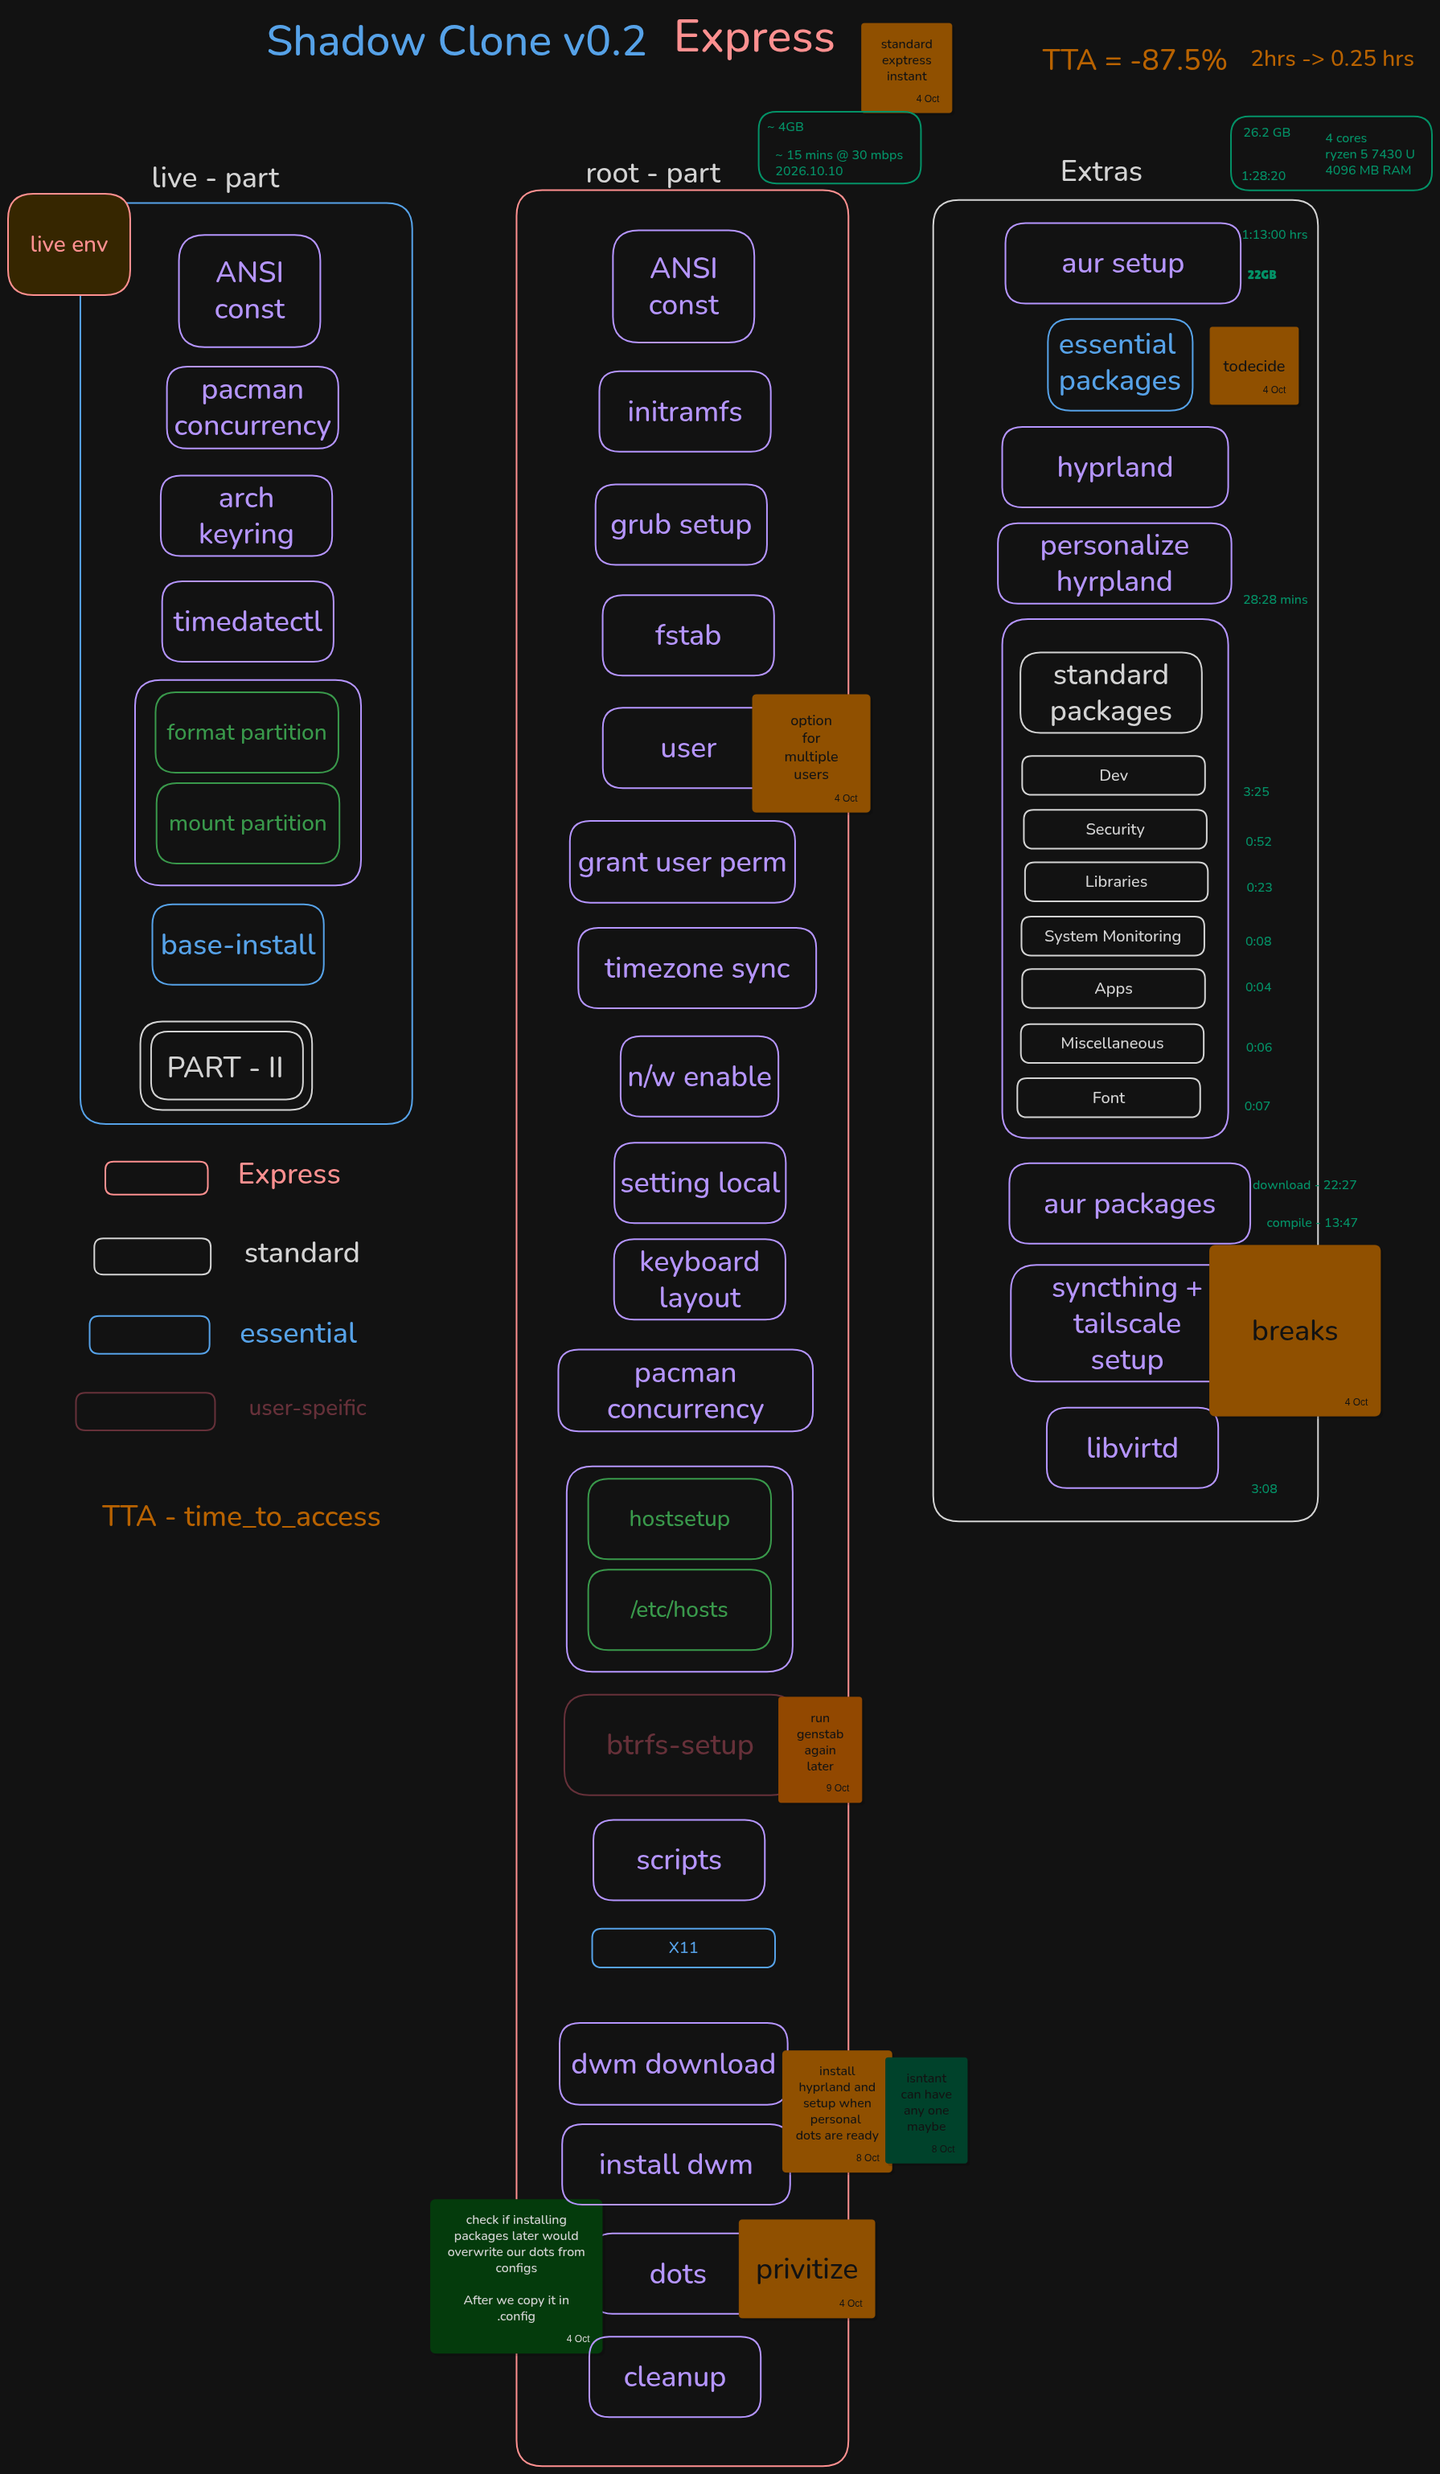
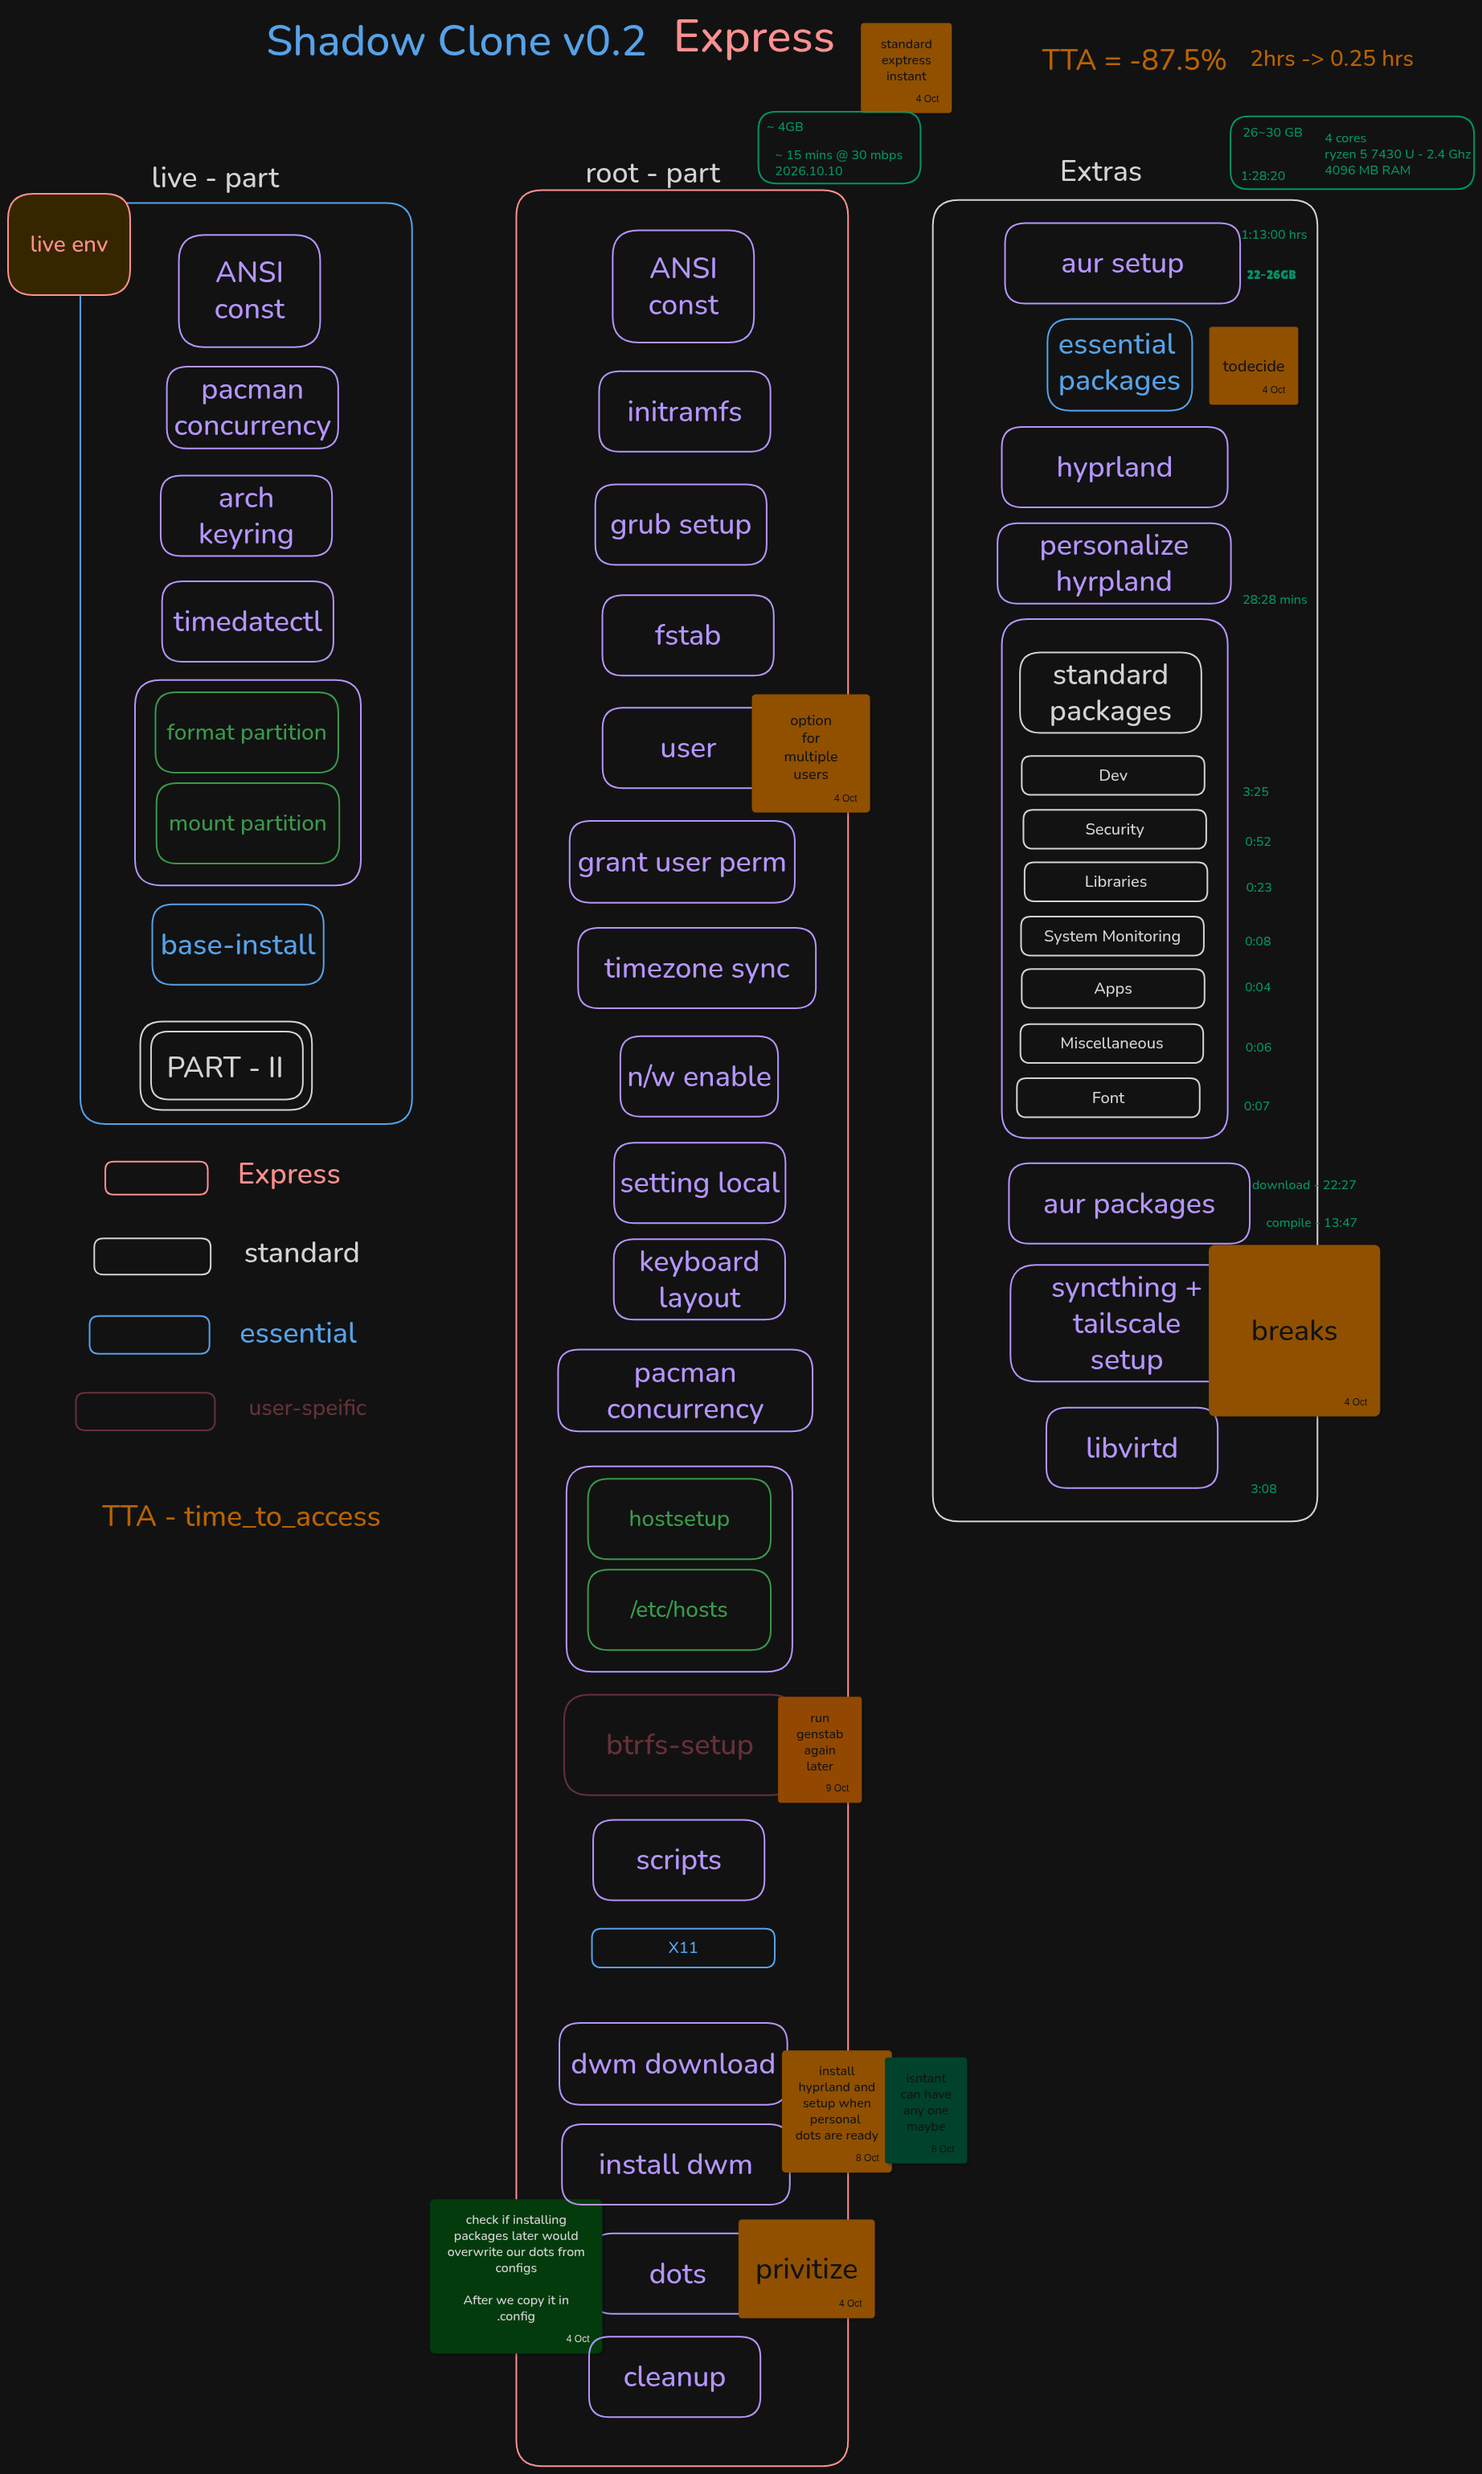
chore(logs): logs for dwm , reboort in live script
modify v0.2md

add v0.3.md

diff --git a/readme.md b/readme.md
@@ -73,12 +73,18 @@ hyprland used is JaKooLit's Arch-Hyprland [ which is the most perfectly maintain
 - [ ] scripts have gone with root permission in both `/bin` and `$HOME`
 - [ ] add AI support to nvim
 - [ ] after the moun point if created make sure there are no files in that or being installed in that . [ completely wipe `archinstall` from the script ].
-- [ ] make sure DWM is installed from dots itself.
+- [ ] exp-make sure DWM is installed from dots itself.
+    - [ ] looks like dwm and st fails installation
+- [ ] exp-hyprland is installed from my dots
+    - [ ] .zshrc gets overridden by linuxBeginnings/kool's dots
+- [ ] setup of storage based on user choices  - if its for pool of vms- then setup virsh pool on it
+    - [ ] though your partition might be in the fstab - it might be possible that libvirtd starts before that, 
+    and might therefore break - check if a `RequriesMountsFor=/your/parition` is required in its systemctl edit libvirtd
 - [ ] add caveats to not enter any key or ```enter``` it self at any part of the script since that might disorganise you stdin to the future requests for stdin. And the whole thing gets unpredictable. [ fix this ]
 - [ ] Alert user for syncthing backup  
 - [ ] Implement checks  
 - [ ] what is user messes up entering passwords to setting up drives  
-- [ ] alert user on few events - give an option to make it silent  
+- [ ] alert user on few events - give an option to make it silent [ default would be it producing some sound ]
 - [ ] replace  
   barrier - > lan-mouse  [test in both hyprland and dwm]
   hoppscotch  

diff --git a/release-notes/v0.2.md b/release-notes/v0.2.md
@@ -16,8 +16,21 @@ could have been running in the background WHILE you could access you system.
 With Express comes a new structural design.
 Where the heavy lifting is done in the background.
 
+The time taken for `live` and `root` part combined is around **15 minutes**... 
+and aound 4gb of disk space.
+
+While the time taken to complete `extras-part` if around **1 and half hour**...
+This includes Jakoolit's hyprland setup as well as AUR package downloads,
+compilation and installation .
+
+The total disk usage to be seen after extras-part is around **26.2-30 GB**. 
+
+> [!CAUTION]
+However I have encountered cases where 30 GB disk space, wasn't 
+sufficient as well - this could be due to build-time dependencies.
+SUBJECTED TO CHANGE*
+
 **[TODO]** 
 - [ ] so we need to later take care of how the heavy lifting is actually 
 progressive with minimal user intervention and time required.
 - [ ] bring in faster script calling it *INSTANT* where we don't even have sleep timers - assuming user's highest priority to access the system.
-

diff --git a/release-notes/v0.3.md b/release-notes/v0.3.md
@@ -1,0 +1,11 @@
+# v0.3 
+
+The were very major erros in Express , v0.3 fixed them.
+
+The main point behind Express was to provide an ACCESSIBLE system within a time limit.
+But looks like the system wasn't ACCESSIBLE in terms of an desktop environment 
+
+## FIXES  
+- [ ] dwm wasn't setting up properly  
+- [ ] st wasn't setting up properly  
+- [ ] priv .zshrc was overwritten by kool's dots  
